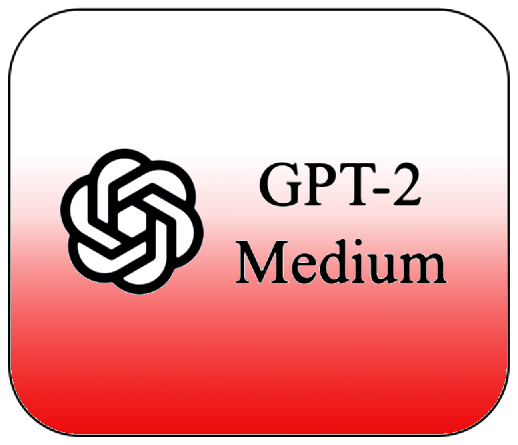
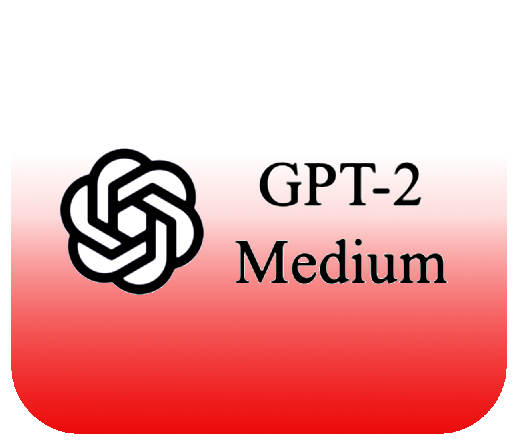
test grid sth

diff --git a/index.html b/index.html
@@ -210,7 +210,7 @@
                 </a>
                 <a href="/home.html">
                 <!-- <li class="item item-border"  data-augmented-ui="r-clip-y bl-clip"> -->
-                <li class="item item-border"  data-augmented-ui="bl-clip tr-clip">
+                <li class="item"  data-augmented-ui="bl-clip tr-clip both">
                     <img src="img/lego_classification.png" alt="Project Image">
                     <div>
                         <h3>LEGO theme classifier</h3>
@@ -223,37 +223,37 @@
 
                 <div class="double-grid">
                   <a href="/home.html">
-                    <li class="item-grid" data-augmented-ui="tr-clip bl-clip br-clip-y border">
+                    <li class="item-grid" >
                       <img src="img/factorioNN.png" alt="Project Image">
-                      <div>
+                      <div data-augmented-ui="tl-clip border">
                         <h3>MNIST Classification in Factorio</h3>
-                          <p>Introductory project. Forward pass of a neural network built from scratch with an interactive input in a video game focused on automation.</p>
+                        <!-- <p>Introductory project. Forward pass of a neural network built from scratch with an interactive input in a video game focused on automation.</p> -->
                       </div>
                   </li>
                 </a>
                 <a href="/home.html">
-                <li class="item-grid" data-augmented-ui="tr-clip bl-clip br-clip-y border">
+                <li class="item-grid">
                     <img src="img/gpt2.png" alt="Project Image">
-                    <div>
+                    <div data-augmented-ui="tl-clip border">
                         <h3>Report copilot-wannabe</h3>
-                        <p>Experiments with fine-tuning a polish version of GPT-2 model on an ultra-small dataset (roughly 30 reports) using HuggingFace Transformers.</p>
+                        <!-- <p>Experiments with fine-tuning a polish version of GPT-2 model on an ultra-small dataset (roughly 30 reports) using HuggingFace Transformers.</p> -->
                     </div>
                 </li>
                 </a>
                   <a href="/home.html">
-                    <li class="item-grid" data-augmented-ui="tr-clip bl-clip br-clip-y border">
+                    <li class="item-grid">
                       <img src="img/youtube_darkmode.svg" alt="Project Image">
-                      <div>
+                      <div data-augmented-ui="tl-clip border">
                           <h3>YouTube Video Dark Mode</h3>
-                          <p>A simple chrome extension designed to invert colors on a youtube video to reduce eye strain. </p>
+                          <!-- <p>A simple chrome extension designed to invert colors on a youtube video to reduce eye strain. </p> -->
                       </div>
                   </li>
                   </a>
                 </a>
                   <a href="/home.html">
-                    <li class="item-grid" data-augmented-ui="tr-clip bl-clip br-clip-y border">
+                    <li class="item-grid">
                       <img src="dummy.png" alt="Project Image">
-                      <div>
+                      <div data-augmented-ui="tl-clip border">
                           <h3>My personal website</h3>
                           <p>You're looking at it! Here's the source code.</p>
                       </div>
@@ -261,9 +261,9 @@
                   </a>
                 </a>
                   <a href="/home.html">
-                    <li class="item-grid" data-augmented-ui="tr-clip bl-clip br-clip-y border">
+                    <li class="item-grid">
                       <img src="dummy.png" alt="Project Image">
-                      <div>
+                      <div data-augmented-ui="tl-clip border">
                           <h3>My personal website</h3>
                           <p>You're looking at it! Here's the source code.</p>
                       </div>

diff --git a/style.css b/style.css
@@ -348,11 +348,20 @@ li::marker {
     align-items: center;
     /* background-color: #1d1d1f; */
     margin: 30px;
-    background-color: #fcee0a;
+    /* background-color: #fcee0a; */
     --aug-bl1: 50px;
     --aug-tr1: 50px;
     --aug-br1: 50px;
     --aug-tl1: 50px;
+    
+    
+    /* background-color: white; */
+    --aug-border-bg: white;
+    --aug-inlay-bg: white;
+    --aug-border-all: 5px;
+    --aug-inlay-all: 12px;
+    --aug-inlay-opacity: 1;
+    background: none;
 
     transition: transform 0.15s linear;
   }
@@ -425,14 +434,14 @@ li::marker {
 
 .item-grid {
   margin: 0;
-  display: flex;
+  /* display: flex;
   flex-direction: column;
   align-items: center;
-  height: 100%;
+  height: 100%; */
 
-  background-color: #fcee0a;
+  /* background-color: #fcee0a; */
   /* background-color: rgb(6, 6, 7); */
-  transition: transform 0.15s linear;
+  /* transition: transform 0.15s linear; */
 
   /* border: 1px solid white; */
 
@@ -478,15 +487,20 @@ li::marker {
    --aug-br1-width:  20px;
    --aug-br1-height: 20px; */
    
-   --aug-border-all: 5px;
+   /* --aug-border-all: 2px;
    --aug-border-bg: #fbe806;
    --aug-inlay-all: 10px;
    --aug-inlay-bg: #fbe806;
 
-   background: linear-gradient(#ff003c, #00f0ff);
-   background: rgb(6, 6, 7);
+   --aug-border-bg: rgb(205, 205, 205);
+   --aug-border-border: rgb(205, 205, 205); */
+
+   /* background: linear-gradient(#ff003c, #00f0ff); */
    /* background: #00f0ff; */
-   
+   /* background: rgb(6, 6, 7); */
+   /* background: rgb(240, 240, 240); */
+   /* background: #00f0ff; */
+/*    
    --aug-bl : 0px;
    
    --aug-tr : 0px;
@@ -494,35 +508,68 @@ li::marker {
    --aug-br-inset2: 0px;
    
    --aug-br1-width:  0px;
-   --aug-br1-height: 0px;
+   --aug-br1-height: 0px; */
+
+   display: grid;
+   grid-template-columns: repeat(10, 1fr);
+   grid-template-rows: repeat(16, 1fr);
+   grid-gap: 10px; 
+   height: 100%;
    
+
+   /* align-items: center; */
   }
   .item-grid img {
     /* margin: auto; */
-    width: 75%;
-    height: 100%;
-    height: 150px;
-    padding-bottom: 0;
-    padding-top: 20%;
-  }
-  .item-grid h3 {
-    
+    width: 100%;
+    /* height: 100%; */
+    /* height: 150px; */
+    padding: 0;
+
+    grid-row: 1 / 16;
+    grid-column: 3 / -1;
+    z-index: 1;
   }
   .item-grid div {
-    margin: 5%;
-    margin-top: 0;
+    margin: 0;
+    margin-left: 0;
     margin-bottom: 0;
     padding: 2%;
+    transition-duration: 0.3s;
+    transition-timing-function: cubic-bezier(1, 0.9, 0.7, 0.3);
+    transition-timing-function: ease-out;
+    
+
+    
+    grid-column: 1 / -2;
+    
+    grid-row: 10 / -1;
+    /* height: 40%; */
+    align-self: end;
+
+    --aug-tl1: 30px;
+    --aug-border-bg: white;
+    --aug-border-all: 2px;
+    
+    background-color: rgb(6, 6, 7);    
+  }
+  .item-grid div h3 {
+    margin: 10%;
+    margin-top: calc(10% + 10px);
   }
   
 .item:hover{
   /* transform: scale(1.05); */
   background-color: white;
 }
-.item-grid:hover {
+.item-grid:hover div {
+  /* transition: all 1s ease-out; */
+  /* grid-row: 5 / -1; */
+  z-index: 1;
+  /* height: 100%; */
   /* --aug-bl : 45px; */
    
-  --aug-tr : 30px;
+  /* --aug-tr : 30px; */
   /* --aug-tr-inset1: 0px;
   --aug-br-inset2: 40%;
   
@@ -550,10 +597,10 @@ li::marker {
   /* --aug-border-bg: black; */
 
   
-  --aug-t-extend1: 60%;
+  /* --aug-t-extend1: 60%;
   --aug-b-extend1: 60%;
   --aug-l-extend1: 45%;
-  --aug-r-extend1: 45%;
+  --aug-r-extend1: 45%; */
   
   /* --aug-t-inset1: 10px; */
   /* --aug-b-inset1: 10px; */
@@ -561,10 +608,10 @@ li::marker {
   /* --aug-r-inset1: 10px; */
 
   /* corners radius */
-  --aug-tr1: 60px;
+  /* --aug-tr1: 60px;
   --aug-br1: 60px;
   --aug-tl1: 60px;
-  --aug-bl1: 60px;
+  --aug-bl1: 60px; */
 }
 
 
